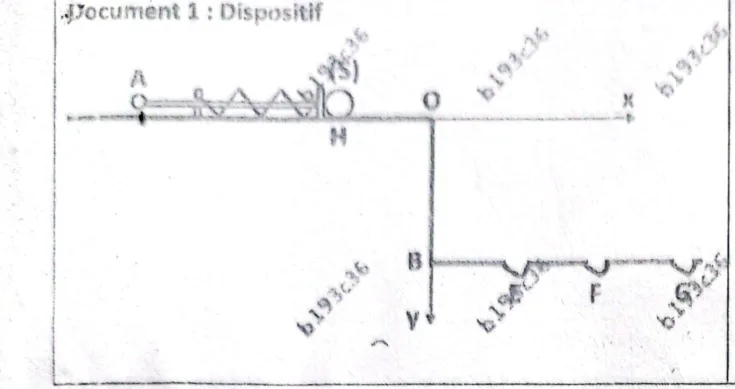
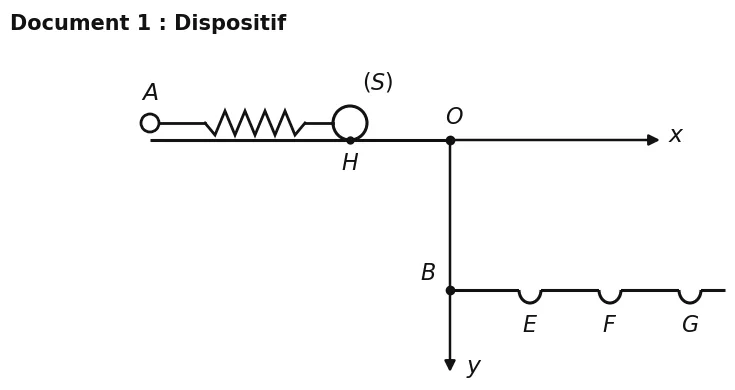
Figures de Physique BAC C 2026 redessinees (F1, F2) et rapport du test eleve
- Figure 1405 « Document 1 : Dispositif » : le scan portait le texte fantome
  « b193c36 » qui masquait des reperes ; redessinee en vectoriel (A, S, H, O, B,
  E, F, G, axes x et y, trous a intervalles reguliers BE = EF = FG).
- Figure 1233 (balancier) : scan flou de 281x278 px ; redessinee (tige L = 4R,
  disque de rayon R soude par son bord, reperes (Delta), O, L, R ; pas de G,
  c'est l'objet de la question B.1).
- scripts/figures/redessin_physique_bac_c_2026/redessiner.py : script du
  redessin (matplotlib), rapport au format de appliquer_figures_propres.
- docs-relecture/eleve/ : rapport complet du pilote du skill eleve (frictions,
  diagnostic de phase B, corrections appliquees).

Pas de PDF d'origine pour les epreuves francophones : redessin d'apres l'image
et l'enonce. Anciennes images sauvegardees en local dans
media/figures_avant_filigrane/ (non versionne). Application en prod a faire
avec appliquer_figures_propres --statuts redessinee.

diff --git a/scripts/figures/redessin_physique_bac_c_2026/redessiner.py b/scripts/figures/redessin_physique_bac_c_2026/redessiner.py
@@ -1,0 +1,127 @@
+"""
+Redessin vectoriel de deux figures de « Physique BAC C 2026 » (test élève F1 et F2, 2026-10-19).
+
+Pas de PDF d'origine pour les épreuves francophones (voir le skill reproduire-figure-sans-filigrane) : les deux
+figures ingérées sont des scans (l'un porte le texte fantôme « b193c36 », l'autre est un scan de 281x278 px),
+elles sont donc redessinées d'après l'original ET l'énoncé, sans rien y ajouter qui donne une réponse.
+
+    python redessiner.py <dossier_sortie>
+
+Écrit <id>.png (id de Figure) et rapport.jsonl au format de `appliquer_figures_propres` (statut « redessinee »).
+"""
+import json
+import sys
+from pathlib import Path
+
+import matplotlib
+
+matplotlib.use("Agg")
+import matplotlib.pyplot as plt  # noqa: E402
+import numpy as np  # noqa: E402
+from matplotlib.patches import Arc, Circle  # noqa: E402
+
+NOIR = "#111111"
+plt.rcParams.update({"font.family": "DejaVu Sans", "mathtext.fontset": "dejavusans"})
+
+
+def toile(largeur, hauteur):
+    fig = plt.figure(figsize=(largeur / 100, hauteur / 100), dpi=100)
+    ax = fig.add_axes([0, 0, 1, 1])
+    ax.set_xlim(0, largeur)
+    ax.set_ylim(hauteur, 0)  # y vers le bas, comme une page
+    ax.set_aspect("equal")
+    ax.axis("off")
+    return fig, ax
+
+
+def fleche(ax, x0, y0, x1, y1, lw=1.8):
+    ax.annotate("", xy=(x1, y1), xytext=(x0, y0),
+                arrowprops=dict(arrowstyle="-|>", color=NOIR, lw=lw, shrinkA=0, shrinkB=0, mutation_scale=16))
+
+
+def dispositif():
+    """Document 1 : ressort et poignée A, boule (S) en H, point O au bord de la table, chute vers B, trous E, F, G."""
+    fig, ax = toile(735, 390)
+    ax.text(10, 24, "Document 1 : Dispositif", fontsize=15, fontweight="bold", color=NOIR, va="center")
+
+    y_haut, y_bas = 140, 290
+    x_a, x_h, x_o = 150, 350, 450
+    # Plan horizontal supérieur : de la poignée jusqu'au point O, puis l'axe x.
+    ax.plot([x_a, x_o], [y_haut, y_haut], color=NOIR, lw=2.2, solid_capstyle="butt")
+    fleche(ax, x_o, y_haut, 660, y_haut)
+    ax.text(668, y_haut - 4, r"$x$", fontsize=17, color=NOIR, va="center")
+    # Poignée A, tige, ressort à spires non jointives, tige de poussée.
+    y_axe = y_haut - 17                     # hauteur du centre de la boule : la tige et le ressort sont à cette hauteur
+    ax.add_patch(Circle((x_a, y_axe), 9, fill=False, ec=NOIR, lw=2))
+    ax.text(x_a, y_axe - 30, r"$A$", fontsize=17, color=NOIR, ha="center", va="center")
+    ax.plot([x_a + 9, 205], [y_axe, y_axe], color=NOIR, lw=2)
+    xs = np.linspace(205, 305, 11)
+    ys = [y_axe + (12 if i % 2 else -12) * (0 < i < 10) for i in range(11)]
+    ax.plot(xs, ys, color=NOIR, lw=2, solid_joinstyle="miter")
+    ax.plot([305, x_h - 17], [y_axe, y_axe], color=NOIR, lw=2)
+    # Boule (S) posée en H.
+    ax.add_patch(Circle((x_h, y_haut - 17), 17, fill=False, ec=NOIR, lw=2.2))
+    ax.text(x_h + 28, y_haut - 58, r"$(S)$", fontsize=16, color=NOIR, ha="center", va="center")
+    ax.plot([x_h], [y_haut], "o", color=NOIR, ms=5)
+    ax.text(x_h, y_haut + 24, r"$H$", fontsize=16, color=NOIR, ha="center", va="center")
+    # Point O et axe y vers le bas, B au pied de la chute.
+    ax.plot([x_o], [y_haut], "o", color=NOIR, ms=6)
+    ax.text(x_o + 4, y_haut - 22, r"$O$", fontsize=16, color=NOIR, ha="center", va="center")
+    fleche(ax, x_o, y_haut, x_o, 372)
+    ax.text(x_o + 16, 368, r"$y$", fontsize=17, color=NOIR, va="center")
+    # Plan inférieur : B puis trois trous E, F, G à intervalles réguliers (BE = EF = FG = d).
+    ax.plot([x_o, 725], [y_bas, y_bas], color=NOIR, lw=2.2, solid_capstyle="butt")
+    ax.plot([x_o], [y_bas], "o", color=NOIR, ms=6)
+    ax.text(x_o - 22, y_bas - 16, r"$B$", fontsize=16, color=NOIR, ha="center", va="center")
+    for lettre, x in (("E", 530), ("F", 610), ("G", 690)):
+        # Le trou : un petit godet sous le plan, le plan est interrompu à cet endroit.
+        ax.plot([x - 11, x + 11], [y_bas, y_bas], color="white", lw=4, solid_capstyle="butt", zorder=3)
+        ax.add_patch(Arc((x, y_bas), 22, 26, theta1=0, theta2=180, color=NOIR, lw=2.2, zorder=4))
+        ax.text(x, y_bas + 36, rf"${lettre}$", fontsize=16, color=NOIR, ha="center", va="center")
+    return fig
+
+
+def balancier():
+    """Balancier : tige de longueur L = 4R suspendue en O, disque de rayon R soudé par son bord à l'extrémité libre."""
+    fig, ax = toile(380, 420)
+    x_tige, y_o, r = 190, 60, 52
+    y_fin = y_o + 4 * r                     # extrémité libre de la tige : L = 4R
+    # Support fixe hachuré et axe (Δ) vu par sa trace, point O.
+    ax.plot([x_tige - 70, x_tige + 70], [y_o - 20, y_o - 20], color=NOIR, lw=2.6, solid_capstyle="butt")
+    for x in np.arange(x_tige - 66, x_tige + 70, 14):
+        ax.plot([x, x + 9], [y_o - 20, y_o - 31], color=NOIR, lw=1.4)
+    ax.plot([x_tige, x_tige], [y_o - 20, y_fin], color=NOIR, lw=3, solid_capstyle="butt")
+    ax.add_patch(Circle((x_tige, y_o), 6, fc="white", ec=NOIR, lw=2, zorder=5))
+    ax.text(x_tige + 17, y_o + 3, r"$O$", fontsize=16, color=NOIR, va="center")
+    ax.text(x_tige - 80, y_o - 20, r"$(\Delta)$", fontsize=15, color=NOIR, ha="right", va="center")
+    # Disque soudé par son bord à la tige.
+    ax.add_patch(Circle((x_tige, y_fin + r), r, fill=False, ec=NOIR, lw=2.6))
+    # Cotes : L le long de la tige, R sur le rayon du disque.
+    x_cote = x_tige + 78
+    ax.annotate("", xy=(x_cote, y_o), xytext=(x_cote, y_fin),
+                arrowprops=dict(arrowstyle="<|-|>", color=NOIR, lw=1.4, shrinkA=0, shrinkB=0, mutation_scale=12))
+    ax.plot([x_tige + 8, x_cote + 6], [y_o, y_o], color=NOIR, lw=1, ls=(0, (3, 3)))
+    ax.plot([x_tige + 8, x_cote + 6], [y_fin, y_fin], color=NOIR, lw=1, ls=(0, (3, 3)))
+    ax.text(x_cote + 14, (y_o + y_fin) / 2, r"$L$", fontsize=16, color=NOIR, va="center")
+    ax.plot([x_tige, x_tige + r], [y_fin + r, y_fin + r], color=NOIR, lw=1.6, ls=(0, (4, 3)))
+    ax.plot([x_tige], [y_fin + r], "o", color=NOIR, ms=3.5)
+    ax.text(x_tige + r / 2, y_fin + r - 15, r"$R$", fontsize=15, color=NOIR, ha="center", va="center")
+    return fig
+
+
+def main(dossier):
+    dossier = Path(dossier)
+    dossier.mkdir(parents=True, exist_ok=True)
+    lots = [(1405, dispositif, "Document 1 : Dispositif (Situation 1, exercice 4)"),
+            (1233, balancier, "Balancier (exercice 3, partie B)")]
+    with open(dossier / "rapport.jsonl", "w", encoding="utf-8") as rapport:
+        for figure_id, dessin, note in lots:
+            fig = dessin()
+            fig.savefig(dossier / f"{figure_id}.png", dpi=100, facecolor="white")
+            plt.close(fig)
+            rapport.write(json.dumps({"id": figure_id, "statut": "redessinee", "score": 1.0, "note": note}, ensure_ascii=False) + "\n")
+    print("écrit dans", dossier)
+
+
+if __name__ == "__main__":
+    main(sys.argv[1])

diff --git a/docs-relecture/eleve/2026-10-19-P2-M1-M2-M3-local.md b/docs-relecture/eleve/2026-10-19-P2-M1-M2-M3-local.md
@@ -1,0 +1,195 @@
+# Test utilisateur P2 - M1, M2, M3 - Nadège, Terminale C
+
+## 1. En-tête
+
+- Début : 2026-10-19 11:09 UTC. Fin : 2026-10-19 11:16 UTC.
+- Terrain : local (http://localhost), base de test, réseau non bridé.
+- URL de départ : http://localhost
+- Persona : Nadège, élève de Terminale C au Cameroun, vise la mention, smartphone + Wi-Fi le soir, patience moyenne.
+- Viewport : mobile 375x812 (remis en desktop à la fin).
+- Compte : visiteuse anonyme (aucun compte créé, aucun code ni mot de passe saisi, aucun paiement, aucun téléchargement).
+- Mode d'exécution : sous-agent à contexte neuf.
+
+## 2. Verdict par mission
+
+- **M1 : réussie.** En moins de 60 s je comprends que le site propose, pour BEPC / Probatoire / BAC au Cameroun, des corrigés d'annales, des cours, des quiz et une séance quotidienne de 25 minutes, avec « Lire un corrigé gratuitement » et « Quiz gratuit, sans compte » en accès libre. Retenu : « un site pour savoir quoi réviser chaque jour, avec corrigés pas à pas ; le prix est tout en bas (15 000 FCFA jusqu'à l'examen) ».
+- **M2 : réussie avec effort léger.** J'ai fait l'essai gratuit de Mathématiques BAC C (6 questions sur « Tableau de variation »), jusqu'au résultat « 3 / 6, Bon début ! ». Retenu : « ce sont de vrais exercices de niveau Terminale C avec corrections détaillées, je m'auto-note, et pour la suite il faut s'abonner ou créer un compte ; mon score n'est pas gardé ».
+- **M3 : réussie.** La recherche « physique 2026 » a compris mes mots (puces « Compris : Physique, 2026 ») et m'a donné en premier « Physique BAC C 2026 », gratuit. J'ai pu lire l'énoncé complet et le corrigé. Retenu : « le sujet et le corrigé officiel sont gratuits, mais deux figures sont de mauvaise qualité (scan flou ; schéma avec texte parasite en diagonale) ; les versions Blanc / Pratique sont réservées aux abonnés ».
+
+## 3. Journal (extrait significatif)
+
+1. Accueil (première visite) : je vois une fenêtre « Quel examen prépares-tu ? » avec « Chargement… » puis BEPC / Probatoire / BAC et un lien « Switch to English ». Je comprends qu'il faut choisir. Je veux voir le site d'abord, mais je clique BAC, puis « Série C ». Capture : fenêtre blanche centrée sur fond flouté, deux barres de progression.
+2. Après « Série C », je tombe directement sur la liste des épreuves BAC C (« 1 326 épreuves publiées », filtre « BAC - Série C »), sans être passée par l'accueil. Je reviens à l'accueil.
+3. Accueil (sans fenêtre, mon choix est retenu) : titre « Chaque jour, on te dit quoi réviser. », sous-titre « BEPC · Probatoire · BAC - Cameroun », deux boutons, photo d'une élève en uniforme. Je comprends : un programme quotidien. Je veux savoir ce qui est gratuit. Les deux boutons le disent.
+4. Accueil, défilement : exemple réel de corrigé « Mathématiques BEPC 2026 » (pas BAC), formules bien rendues, « Comment ça marche » en 3 étapes, « Épreuves Inédites EXCLUSIF », « Pourquoi EduKora ? », prix en bas. Je note que l'exemple est du BEPC alors que je prépare le BAC.
+5. Je clique « Quiz gratuit, sans compte » : écran gris de chargement quelques instants (blocs vides), puis page « Un quiz qui cible tes lacunes ». Bloc « Essaie gratuitement, sans compte » avec puces d'examen : « BAC - A » est sélectionné d'office, alors que j'ai dit Série C. Je clique « BAC - C ».
+6. Liste de matières BAC C : Anglais, Chimie, Français, Informatique, Littérature, Mathématiques, Philosophie, Programmation, Sciences de la V…, Systèmes d'Infor…, Éducation Civique. Pas de Physique. Intitulés des thèmes coupés (« Tableau de variati… »). Je choisis Mathématiques.
+7. Question 1/6 : « Soit f définie sur R\{3} par f(x)=(2x+1)/(x-3)… dresser le tableau de variations ». Formules nettes. Pas de choix multiples : encadré « Essaie d'abord sur ton brouillon » et bouton « Voir la correction ». Je comprends que je m'auto-évalue.
+8. Correction : « Rappel de méthode » avec lien « Voir le cours complet » écrasé en colonne étroite, puis « Corrigé » en étapes ; formules en ligne petites mais lisibles ; tableau de variations coupé à droite (la colonne +∞ disparaît). Question « as-tu réussi ? » : Réussi / Partiel / Échec. Je clique Partiel : « Presque ! Il t'a manqué peu de chose. » + lien « Exercices corrigés sur ce thème ». Bon ton.
+9. Questions 2 à 6 (même thème, même schéma). Q3 : je clique Échec : « Pas cette fois : lis la correction, elle vaut de l'or. » Bandeau de progression coloré (jaune/vert/rouge). Compteur « 1 / 2 juste » : le Partiel compte comme non juste.
+10. Résultat : « Bon début ! 3 / 6 bonnes réponses », barre « Tableau de variation 3 / 6 », boutons « Refaire cet essai », « Défier un camarade », « Exercices corrigés sur ce thème », bloc « Ce n'était qu'un thème » avec « Voir les abonnements » et « Créer mon compte », mention « Ton score n'est pas enregistré : il disparaît quand tu fermes l'onglet », lien « Essayer un autre thème gratuit ». Je comprends : pour garder ma progression, il faut un compte. Pas de prix à cet endroit.
+11. Retour accueil, icône loupe : page recherche « Un mot, et on te dit par où commencer. », mon examen BAC C est pré-sélectionné, suggestions de thèmes. Je tape « physique 2026 » : puces « Compris : Physique, 2026 », 12 résultats, section Épreuves (4). Premier : « Physique BAC C 2026 » badge Gratuit ; puis « - Blanc », « - Pratique », « - Blanc - Pratique » badge Abonnés (cadenas).
+12. Fiche « Physique BAC C 2026 » : Cameroun, « Corrigé en accès libre », 5 exercices, 4h, coefficient 3, Office du Baccalauréat du Cameroun, boutons « Lire le corrigé », « Télécharger l'épreuve » (non cliqué), « Partager ». « Au programme » : titres coupés et pastilles « 8 pts » rognées à droite ; la page dépasse de 20 px en largeur (395 px pour 375).
+13. Fiche, « Le sujet » : tout l'énoncé est lisible sur la page (environ 9 000 px de long). Texte net. Figure du balancier (exercice 3) : scan petit (281x278 px), fond grisé de photocopie, traces parasites en bas, points O et G non indiqués. Capture et zoom : tige verticale avec disque, « (Δ) » écrit, aucun repère O, G ni L.
+14. Fiche, « Situation 1 » (jeu de la boule) : schéma « Document 1 : Dispositif » avec texte gris répété en diagonale (« b193c36 » environ cinq fois) qui recouvre le tracé ; titre coupé à gauche ; repères E et G en partie masqués. Illisible pour étudier les trous E, F, G.
+15. Tableau de l'exercice 4 (N en Hz, I en mA) : défile horizontalement dans son cadre, valeurs coupées à 700 mais barre de défilement visible.
+16. « Lire le corrigé » : lecteur avec pastilles collantes Ex. 1 à Ex. 5, « Voir l'énoncé » replié par défaut, « Corrigé » en étapes, « Je l'ai fait », « Haut de page ». Page de 42 940 px. Pas de débordement horizontal. Les deux mêmes figures.
+17. « Autres épreuves de Physique » : cartes « Examen blanc », « Voir l'aperçu ». J'ouvre « Blanc » : bandeau « Débloque le corrigé complet. Le sujet ci-dessous est en libre accès. La correction détaillée est réservée aux abonnés. », bouton « S'abonner ».
+18. « S'abonner » : j'arrive sur « Connexion » (e-mail, code, téléphone), sans aucun prix. Pendant un instant, le bloc montre « OU » sans rien au-dessus, puis le bouton Google apparaît. Le bouton retour du navigateur me renvoie deux fois à cet écran (je dois revenir à l'accueil). J'arrête cette branche.
+19. Catalogue via « Lire un corrigé gratuitement » : liste « Gratuites uniquement », examen « Tous » (mon choix BAC C n'est pas repris ici). Je filtre BAC C : 6 épreuves gratuites, dont Mathématiques BAC C 2026 et Physique BAC C 2026. Tri « Ajoutées… » (libellé coupé), bascule grille/liste.
+
+## 4. Ce qui marche bien
+
+- Promesse claire dès l'accueil et deux appels à l'action gratuits bien visibles (M1).
+- Le choix d'examen et de série est retenu et sert à pré-filtrer la recherche et le catalogue.
+- Quiz sans compte, jusqu'au résultat, avec corrections détaillées niveau Terminale C. Formules KaTeX nettes sur mobile, énoncés à plusieurs questions bien mis en forme.
+- Retours après auto-évaluation motivants et courts (« Presque ! », « elle vaut de l'or »), avec un lien vers des exercices du même thème.
+- Honnêteté sur le score non enregistré, et invitation à s'inscrire sans mur dur.
+- Recherche tolérante : « physique 2026 » est découpé en puces « Compris », résultat n° 1 correct, badge Gratuit / Abonnés clair.
+- Fiche d'épreuve complète (cursus, coefficient, durée, source : Office du Baccalauréat), énoncé lisible en entier, corrigé gratuit pour cette épreuve.
+- Lecteur : pastilles collantes d'exercices, « Voir l'énoncé » repliable, « Je l'ai fait », pas de débordement horizontal.
+- Tableaux larges défilables dans leur cadre.
+
+## 5. Frictions
+
+| Id | Sév. | Catégorie | Étape | Observé | Attendu | Preuve | Confiance |
+|----|------|-----------|-------|---------|---------|--------|-----------|
+| F1 | S2 | contenu | M3, fiche, Situation 1 (jeu de la boule) | Le schéma « Document 1 : Dispositif » porte un texte gris en diagonale répété (« b193c36 » environ 5 fois) qui recouvre le tracé et masque en partie les repères E et G ; le titre « Document 1 : Dispositif » est coupé à gauche | Figure propre, sans texte parasite, avec tous les repères lisibles | Zoom sur la figure : tracé fin horizontal avec ressort, texte oblique répété sur toute la largeur, lettres O, B, F visibles, E absente, G partiellement couverte ; même fichier dans la fiche et dans le lecteur | élevée |
+| F2 | S2 | contenu | M3, fiche, exercice 3 (balancier) | Schéma en basse résolution (281x278 px), grain de photocopie gris, traces de texte coupé au bord inférieur ; ni O, ni G, ni L marqués alors que l'énoncé s'en sert | Schéma net, recadré, avec les points de l'énoncé | Zoom : disque + tige + « (Δ) » flous sur fond gris tacheté, bas du cadre avec petits fragments noirs | élevée |
+| F3 | S3 | UX | M2, correction de chaque question | Le tableau de variations est coupé à droite dans la correction (colonne +∞ / dernière valeur disparaît), sans indice net de défilement | Tableau entier visible ou indice clair de défilement | Captures q1, q2, q3 : en-tête « x −∞ 3 - », f(x) « 4e⁻² » tronqué, barre grise fine sous le tableau | moyenne |
+| F4 | S3 | UX | M2, liste des quiz gratuits | Le quiz s'ouvre sur « BAC - A » alors que j'ai indiqué Série C à l'arrivée ; il faut recliquer « BAC - C » | Série déjà choisie réutilisée | Capture : pastille « BAC - A » pleine verte, « BAC - C » vide ; fiche et recherche, elles, reprenaient BAC C | moyenne |
+| F5 | S3 | contenu | M2, liste des quiz gratuits BAC C | Pas de Physique dans les essais gratuits BAC C (présents : Chimie, Maths, SVT, etc.) alors que c'est une matière majeure de la série C | Physique proposée (ou explication) | Capture de la liste : onze matières, de « Anglais » à « Éducation Civique », sans Physique | moyenne |
+| F6 | S3 | UX | M3, fiche (Au programme) | La page déborde de 20 px (scrollWidth 395 pour 375) : pastilles « 8 pts » rognées au bord droit, titres d'exercices coupés par « … » | Rien de rogné, pas de défilement horizontal | Capture : pastilles « 8 pts » touchant et dépassant le bord ; mesure 395 / 375 | élevée |
+| F7 | S3 | confiance/vente | M3, paywall « Blanc » | Le bandeau « Débloque le corrigé complet » ne donne aucun prix ; « S'abonner » mène à la connexion, toujours sans prix ; ma lecture du prix n'est possible qu'au bas de l'accueil | Prix ou lien « Voir les prix » au point de décision | Captures : carte verte avec 3 coches et « S'abonner » ; écran « Connexion » ensuite | élevée |
+| F8 | S3 | fonctionnel | M3, après « S'abonner » | Le bouton retour du navigateur me ramène 2 fois de suite à l'écran Connexion (boucle abonnement → connexion) ; je ne peux revenir à l'épreuve qu'en repartant de l'accueil | Retour à l'épreuve | Deux retours : titre « Abonnement » puis « Connexion », URL abonnement?cursus=20 | moyenne |
+| F9 | S3 | UX | M1 | Première visite : fenêtre modale sur l'accueil, avec « Chargement… » d'abord ; choisir BAC puis « Série C » m'envoie sur le catalogue d'épreuves sans voir l'accueil | Voir la promesse avant de répondre, ou rester sur l'accueil | Capture de la fenêtre « Quel examen prépares-tu ? » floutant la page, « Chargement… » puis trois boutons | moyenne |
+| F10 | S3 | UX | M2, correction | Le lien « Voir le cours complet » du « Rappel de méthode » est comprimé en colonne étroite (3 lignes) à côté de son libellé ; même rendu dans le lecteur | Lien sur une ligne | Capture : encadré bleu, colonne gauche « Voir le / cours / complet » et colonne droite le libellé | élevée |
+| F11 | S4 | UX | M2 | Libellés tronqués : thèmes des matières (« Tableau de variati… », « Sciences de la V… », « Systèmes d'Infor… »), tri du catalogue (« Ajoutées… ») | Libellés complets ou deux lignes | Captures de la liste de quiz et de la barre de tri | élevée |
+| F12 | S4 | contenu | M3, recherche | L'extrait du premier résultat répète « PARTIE I : ÉVALUATION DES RESSOURCES (24 points) EXERCICE 1 : » deux fois et en majuscules brutes | Extrait propre | Capture : carte « Physique BAC C 2026 » avec le texte répété | moyenne |
+| F13 | S4 | contenu | M3, fiche | « Au programme » : exercices 1 à 3 titrés, exercices 4 et 5 simplement « Exercice 4 / 5 » | Titres homogènes | Capture : liste de 5 lignes | élevée |
+| F14 | S4 | UX | M3, fiche d'une épreuve Abonnés | « Télécharger l'épreuve » est visible pour un visiteur sur une épreuve dont seul le sujet est libre ; le sens de « Blanc » et « Pratique » n'est donné que par « Examen blanc » sur la carte | Libellés explicites | Captures de la fiche Blanc et des cartes de recherche | faible |
+| F15 | S4 | UX | M2 | Le compteur « 0 / 1 juste » après « Partiel » compte un partiel comme faux ; deux boutons « Créer mon compte » proches au résultat | Compteur plus nuancé | Capture « 1 / 2 juste » avec une barre jaune | faible |
+| F16 | S4 | contenu | M1 | L'exemple de corrigé de l'accueil est du BEPC (Mathématiques BEPC 2026), non du BAC ; le prix est dit « par enfant », vocabulaire de parent | Exemple du cursus choisi ; tutoiement jusqu'au prix | Texte de l'accueil, section « Un exemple, plutôt qu'une promesse » et « Prêt à commencer ? » | moyenne |
+| F17 | S4 | performance | Toutes | Console : 3 erreurs 401 et 5 « An unknown error occurred when fetching the script », avertissements Google « initialize() is called multiple times » | Console propre | Lecture de la console après le parcours | faible |
+
+## 6. Mesures
+
+- Page d'arrivée (accueil, local, après premier chargement) : 66 requêtes, environ 620 Ko (compressé) ; 3 plus gros fichiers : index-CK0PtY3o.js 125 Ko, hero-student.jpg 80 Ko, endpoints.js 64 Ko. Chargement local 46 ms (non représentatif du terrain). Estimation en 3G : 620 Ko ≈ 6 à 12 s.
+- Fiche d'épreuve (cumul de session, 112 ressources, environ 936 Ko) ; le lecteur charge EpreuveMarkdown.js (189 Ko) et deux figures webp ; pas de requêtes en échec visibles hormis un avortement volontaire d'une liste.
+- Taille des pages : fiche Physique BAC C 2026 environ 14 160 px de haut, lecteur environ 42 940 px.
+- Console : 3 erreurs 401 (appels non connectés), 5 erreurs de chargement de script, 4 avertissements Google Sign-In.
+- Débordement horizontal : fiche 395 px pour 375 px ; accueil et lecteur : 375 px.
+- Temps ressentis : choix de la fenêtre puis page de liste en moins de 2 s ; chargement gris du quiz environ 2 s (blocs vides sans texte).
+- Mon outil de capture a affiché parfois l'écran précédent ; ce défaut vient de l'outil, pas du site, et je l'ai écarté par des attentes.
+
+## 7. Idées d'amélioration
+
+| Idée | Effet attendu | Effort |
+|------|---------------|--------|
+| Régénérer proprement les deux figures de Physique BAC C 2026 (retirer le texte oblique, relever le balancier en haute définition avec O, G, L) | Fin de la perte de confiance sur un sujet gratuit phare | moyen |
+| Contrôle automatique des figures (détection de texte répété en diagonale, taille minimale) avant publication | Éviter que d'autres épreuves aient le même défaut | moyen |
+| Afficher le prix ou « Voir les prix » dans le bandeau « Débloque le corrigé complet » et avant la connexion | Décision d'abonnement plus rapide | faible |
+| Réutiliser la série déjà choisie dans la liste des quiz gratuits, et ajouter Physique pour BAC C | Moins de clics, plus de confiance | faible |
+| Tableaux de variations : réduire la police ou ajouter une ombre de défilement à droite | Lecture complète sur 375 px | faible |
+| Corriger le débordement de la fiche (pastilles de points à la ligne) | Page propre sans défilement horizontal | faible |
+| Exemple de l'accueil adapté au cursus choisi ; « par enfant » reformulé pour l'élève | Meilleur écho pour Nadège | faible |
+| Corriger la redirection abonnement/connexion pour que le retour revienne à l'épreuve | Moins de frustration | faible |
+
+## 8. Ce que cette session ne dit pas
+
+- Pas de mesure de la motivation : je ne sais pas si Nadège s'inscrirait réellement.
+- Réseau non bridé, terrain local : les temps de chargement ne reflètent ni le Wi-Fi camerounais ni la 3G.
+- Testeur simulé : un seul parcours, un seul profil, un seul appareil émulé (375x812), pas un vrai téléphone.
+- Pas de relecture scientifique : je n'ai pas vérifié la justesse des corrigés (quelques calculs vus semblaient cohérents) ni la conformité au programme.
+- Aucun compte, aucun paiement, aucun téléchargement : je n'ai pas vu le prix détaillé, le code de connexion, l'espace abonné, ni le contenu réservé aux abonnés (seul le sujet libre d'un examen blanc est entrevu).
+- Non couvert : version desktop, anglais, mode hors ligne (« Lire sans réseau »), épreuves inédites, thèmes les plus fréquents.
+
+## 9. Calibrage et dédoublonnage (opérateur, après la phase A)
+
+**Calibrage : réussi.** Défaut connu choisi avant la session et caché au sous-agent : la figure 1405 (« Document 1 : Dispositif », Situation 1 de Physique BAC C 2026) porte le texte fantôme « b193c36 », listée « à redessiner » dans l'audit filigranes du 2026-10-18. L'élève l'a trouvée seule (F1, S2, confiance élevée), avec la bonne description (texte gris diagonal répété, repères masqués). Le testeur n'est donc pas trop indulgent sur les défauts visuels de contenu. Limite : un seul défaut de calibrage, de type visuel ; rien n'a été éprouvé sur un défaut fonctionnel.
+
+**Statuts** (comparés à la mémoire du projet, pas encore à un rapport antérieur : c'est le premier) :
+- F1 : **déjà connue** (audit filigranes 2026-10-18, figure 1405, redessin en attente).
+- F2 : à rattacher à l'audit filigranes (type C, résidus et basse résolution) : à vérifier, non retrouvée dans la liste des ids connus.
+- F3 à F17 : **nouvelles** (aucune trace en mémoire). Non vérifiées en phase B, à confirmer avant correction, surtout F4 et F5 (une partie du quiz gratuit n'affiche volontairement qu'un thème par matière, voir la mémoire « quiz gratuits ») et F17 (les 401 sont attendus pour une visiteuse anonyme, probablement du bruit).
+
+**Priorisation proposée** (effet/effort, avant tout croisement avec les analytics, non fait) :
+1. F7 (prix absent au point de décision) et F8 (boucle retour abonnement/connexion) : effort faible, touchent la conversion.
+2. F6, F10, F3 : défauts de mise en page mobile, effort faible.
+3. F4, F5 : cohérence du quiz gratuit (à confirmer d'abord).
+4. F1, F2 : redessin des figures (déjà au programme).
+
+## 10. Diagnostic [phase B] (2026-10-19, lecture seule, rien corrigé)
+
+Méthode : lecture du code, requêtes en lecture sur la base locale, mesures dans le navigateur (expériences sur le DOM, non persistées).
+
+| Id | Verdict | Cause constatée |
+|----|---------|-----------------|
+| F5 | **Confirmée** | `quiz/gratuits.py` n'affiche une matière que si un thème a TOUS ses items publiés en vitrine pour le cursus. Cursus 20 (BAC C), Physique : 516 items, 10 en vitrine, répartis sur 2 thèmes qui ont chacun 5 items vitrine sur 6 (« radioactivité » id 5429, « Mouvement circulaire uniforme » id 5808). Aucun thème n'est complet, donc la Physique disparaît de la liste. Probable dérive après `definir_quiz_vitrine` : un 6e item ajouté ensuite, non marqué vitrine (hypothèse, non vérifiée dans l'historique). Même mécanisme pour Géographie, Réseaux et EPS (0 vitrine). |
+| F4 | **Confirmée** | `QuizStartPage.tsx` (l. 529) passe `cursusParam ?? cursusPrepareId` à `EssaisGratuitsQuiz`, où `cursusPrepareId = user?.cursus_prepare?.id`, nul pour un visiteur. Le choix du visiteur est dans `localStorage` (`edukamer_cursus_prepare_en_attente`, lib `cursusPrepare.ts`, hook `useCursusPrepareEnAttente`), lu par l'accueil, le catalogue et la recherche mais pas par `QuizStartPage`. Sans cursus initial, le composant prend le premier cursus de la langue (BAC A). |
+| F8 | **Confirmée** | `SubscribePage.tsx` (l. 171) appelle `navigate("/connexion", {state})` sans `replace: true`. `/abonnement` reste dans l'historique, donc « retour » y revient et il redirige de nouveau vers la connexion. |
+| F7 | **Confirmée** | Le bloc `ed.debloque` d'`EpreuveDetailPage.tsx` (l. 295-340) n'a aucun prix ni lien vers `/tarifs` ; son bouton va vers `/abonnement?cursus=…` qui exige d'abord une connexion (F8), donc le visiteur ne voit aucun prix avant de s'identifier. Une page `/tarifs` existe (`PricingPage.tsx`). |
+| F6 | **Confirmée, cause isolée** | `EpreuveDetailPage.tsx` : le `<ol className="grid gap-2.5 sm:grid-cols-2">` (et celui des sections, l. 368) n'a pas de colonne explicite sur mobile. La colonne implicite `auto` prend la largeur du texte `truncate` (non sécable) : 378,75 px dans un conteneur de 343 px. Vérifié en direct : avec `gridTemplateColumns: minmax(0,1fr)` le `scrollWidth` passe de 395 à 375. |
+| F10 | **Confirmée** | `LienCours.tsx` : le lien est un `flex` en ligne (`flex items-center gap-1`) contenant le libellé, un `<span>` « · titre du cours » long et la flèche. Dans un conteneur de 273 px les items se partagent la place : le libellé « Voir le cours complet » est écrasé sur 3 lignes (hauteur mesurée 68 px). Présent aussi dans `Callout.tsx` et `EpreuveMarkdown.tsx`. |
+| F3 | **Confirmée en partie** | `MarkdownTable` (`EpreuveMarkdown.tsx` l. 183) enveloppe déjà le tableau dans `overflow-x-auto` : sur la fiche mesurée, 562 px de tableau pour 309 px visibles. Le contenu est donc accessible en faisant défiler ; il manque seulement un indice visuel (ombre ou flèche). Mesuré dans le lecteur d'épreuve ; le quiz utilise le même composant (`QuizSessionPage.tsx` l. 481 et 563) mais je n'ai pas remesuré dans le quiz. |
+
+**Corrections proposées** (à faire à la demande de l'utilisateur, rien n'a été modifié) :
+- F8 : ajouter `replace: true` au `navigate("/connexion", …)`. Une ligne.
+- F6 : `grid-cols-1` (ou `grid-cols-[minmax(0,1fr)]`) sur ces deux `<ol>`. Une classe.
+- F10 : laisser le libellé en `shrink-0 whitespace-nowrap` ou passer le titre à la ligne (`flex-wrap`) dans `LienCours`.
+- F7 : lien « Voir les prix » (vers `/tarifs`) dans le bloc de déblocage, ou afficher le prix du cursus.
+- F4 : lire `useCursusPrepareEnAttente()` dans `QuizStartPage` comme repli de `cursusPrepareId`.
+- F5 : réaligner `definir_quiz_vitrine` pour BAC C Physique (items 5429 et 5808, 6e item), puis vérifier que les autres cursus n'ont pas la même dérive. Lancer d'abord la commande en simulation si elle existe.
+- F3 : ombre de défilement à droite des tableaux de `MarkdownTable`.
+
+## 11. Corrections appliquées (2026-10-19, frontend, non committées)
+
+| Id | Correction | Vérification |
+|----|-----------|--------------|
+| F8 | `replace: true` dans la redirection vers `/connexion` (`SubscribePage.tsx`) | Test ajouté, échoue sans le correctif |
+| F6 | `grid-cols-1` sur les deux `<ol>` « Au programme » (`EpreuveDetailPage.tsx`) | Navigateur mobile : débordement 395 → 375 px |
+| F10 | `LienCours.tsx` : `flex-wrap` et libellé insécable | Navigateur mobile : libellé sur une ligne (147x23 px), titre dessous |
+| F4 | `QuizStartPage.tsx` repli sur `useCursusPrepareEnAttente()` | Test `QuizStartPage.visiteur.test.tsx` (3 cas), échoue sans le correctif |
+| F7 | Bouton « Voir les prix » vers `/tarifs` à côté de « S'abonner » (`EpreuveDetailPage.tsx`, clés `ed.voir_prix` FR et EN) | Capture mobile sur « Physique BAC C 2026 - Blanc » |
+| F3 | `MarkdownTable` : ombre sur le bord droit tant qu'il reste du tableau à faire défiler (`EpreuveMarkdown.tsx`) | Test `EpreuveMarkdown.tableau.test.tsx` (3 cas) ; navigateur : ombre présente au chargement |
+
+Suite complète : 83 fichiers, 741 tests verts ; `tsc` sans erreur. **Restent : F5** (réaligner la vitrine quiz de Physique BAC C) et les frictions S4 non traitées.
+
+Limite de vérification F3 : dans le panneau du navigateur intégré, un défilement programmé ne déclenche pas d'évènement `scroll` ; la disparition de l'ombre en bout de course n'est donc confirmée que par le test unitaire et par un évènement `scroll` envoyé à la main.
+
+## 12. F5 traitée (2026-10-19, local, non committée)
+
+**Correction du diagnostic de la section 10** : ce n'était pas une dérive. La base locale était alignée sur la sélection (simulation : 502 items avant et après). La Physique de la série C n'était tout simplement pas dans `SELECTION` (`definir_quiz_vitrine.py`), qui offre 8 matières par cursus ; les 10 items vitrine vus en base étaient un débordement des thèmes choisis pour les séries E (« Mouvement circulaire uniforme ») et TI (« radioactivité »), car les items sont partagés entre cursus.
+
+**Correction** : deux lignes ajoutées à `SELECTION` : `("CM","BAC","C","PHYSIQUE","radioactivité")` et la même pour D. Thème le plus fréquent aux épreuves BAC C parmi ceux déjà gratuits (18 épreuves), 6 items, aucune figure. Un seul item de plus devient gratuit (id 5494, partagé C et D). Simulation puis `--appliquer` en local : BAC C et BAC D passent de 11 à 12 quiz gratuits (503 items). Vérifié dans le navigateur : « Physique | Radioactivité · 6 questions » listé pour BAC C, et l'essai démarre (question 1 sur 6, celle du carbone 14).
+
+Tests : 293 tests backend `quiz` et `catalog.test_papers_vitrine` verts ; `quiz/test_vitrine_selection.py` ajouté (entrée unique par cursus et matière ; Physique offerte en C et D).
+
+**À rejouer en prod** après déploiement du code : `python manage.py definir_quiz_vitrine` (simulation) puis `--appliquer`. En local le fichier a été copié dans le conteneur par `docker cp` : il disparaît à la reconstruction de l'image, sans conséquence puisque la base est déjà alignée.
+
+**Autres trous constatés dans la même mesure** (matières à plus de 100 items sans quiz gratuit affiché ; non traités, choix éditorial à faire) :
+- Probatoire A : Physique-Chimie (366), Éducation physique (240), Histoire (180), Éducation civique (162).
+- Probatoire C et TI : Sciences de la Vie et de la Terre (468) ; Éducation physique (240 à 246) et Éducation civique (162) dans presque tous les Probatoires.
+- BEPC : Éducation civique (230). BAC TI : Réseaux, Internet et Sécurité informatique (222). BAC A, C, D, E, TI : Éducation physique (144).
+- Histoire : 5 items gratuits partiels (débordement du BEPC) dans plusieurs cursus, sans thème complet donc non affichée.
+- GCE O et A Level : aucune matière à plus de 100 items manquante.
+
+## 13. Frictions S4 et suite (2026-10-19, non committées)
+
+Décisions de l'utilisateur : F9 passer par l'accueil, F1 et F2 redessiner, F16 adapter l'exemple à l'examen avec une mathématique gratuite, F14 laisser, F15 suivre mon choix, le reste selon mes recommandations.
+
+| Id | Décision | Réalisé |
+|----|----------|---------|
+| F9 | Rester sur l'accueil après le choix d'examen | `OnboardingModal.tsx` : `terminer()` et `finish()` ramènent à `catalogueHomePath` au lieu de `/epreuves?cursus=`. 17 tests, dont un nouveau (BAC série C). Vérifié : le visiteur reste sur `/cm`, la fenêtre se ferme. |
+| F16 | Exemple d'accueil adapté à l'examen | `lib/exempleCorrige.ts` : `exempleDuCursus` + `coupeParRepere`. BAC C et E : « Mathématiques BAC C 2026 », exercice 3, question I.1 (1 168 caractères) ; BAC D : « Mathématiques BAC D 2026 », exercice 2. BEPC et les cursus sans mathématique gratuite adaptée (Probatoire, BAC A, BAC TI) gardent l'exemple par défaut. Vérifié en navigateur pour la série C. |
+| F15 | Mon choix : **laisser le compteur tel quel** | « juste » reste vrai : un partiel n'est pas une réponse juste, et le texte de retour après le partiel est déjà nuancé. |
+| F14 | Laisser | Rien. |
+| F13 | Laisser (recommandation) | Titres absents des données du sujet officiel : rien à inventer. |
+| F11 | Libellés tronqués | Matières des essais gratuits et du quiz sur deux lignes, thème limité à deux lignes, nombre de questions sur sa propre ligne, sélecteur de tri plus large sur mobile (`EssaisGratuitsQuiz.tsx`, `QuizStartPage.tsx`, `EpreuvesListPage.tsx`). Vérifié : « Sciences de la Vie et de la Terre » entier. |
+| F12 | Extrait de recherche répété | `recherche/texte.py` : `_sans_repetition_initiale` (aperçu et extrait). 4 tests ajoutés, 197 tests `recherche` verts. Index local reconstruit (`indexer_recherche`, 74 528 lignes). **À rejouer en prod** : déploiement puis `indexer_recherche`. Le caractère « � » vu dans la console n'existe pas dans les données : c'était l'affichage du terminal (0 occurrence de U+FFFD dans les exercices). |
+| F17 | Console | Non reproduit comme défaut du site : `sw.js` est servi en 200 (text/javascript), mais l'enregistrement du service worker échoue dans le navigateur intégré de l'application (« unknown error fetching the script »), ce qui explique les 5 erreurs. Les 401 sont attendus pour un visiteur. À vérifier dans un vrai Chrome si le doute persiste. Détail mineur : `/registerSW.js` renvoie la page d'accueil (200, text/html) au lieu d'un 404, sans conséquence car aucune page ne le référence. |
+| F1, F2 | Redessiner | `scripts/figures/redessin_physique_bac_c_2026/redessiner.py` (matplotlib) : « Document 1 : Dispositif » (figure 1405, sans texte fantôme, repères A, S, H, O, B, E, F, G, x et y, trous à intervalles réguliers BE = EF = FG) et balancier (figure 1233, tige L = 4R, disque de rayon R soudé par son bord, repères (Δ), O, L et R ; **pas de G**, c'est ce que demande la question B.1). Appliquées en base locale par `appliquer_figures_propres --statuts redessinee`, anciennes images dans `media/figures_avant_filigrane/`, PDF du sujet régénéré (`generate_sujet_pdfs --lesson 949 --force`). Vérifié en navigateur : nouvelles images servies (6 590 et 3 770 octets). **Prod à rejouer.** |
+
+Suite complète : 83 fichiers, 749 tests frontend verts, `tsc` propre ; backend `recherche` (197) et `quiz` + `catalog.test_papers_vitrine` (293) verts.
+
+Restent hors de cette passe : F5 (autres matières sans quiz gratuit, section 12), les redessins d'autres figures filigranées de l'audit du 2026-10-18 (2060, 2061, 2616), et le rejeu en prod de tout ce qui précède.
